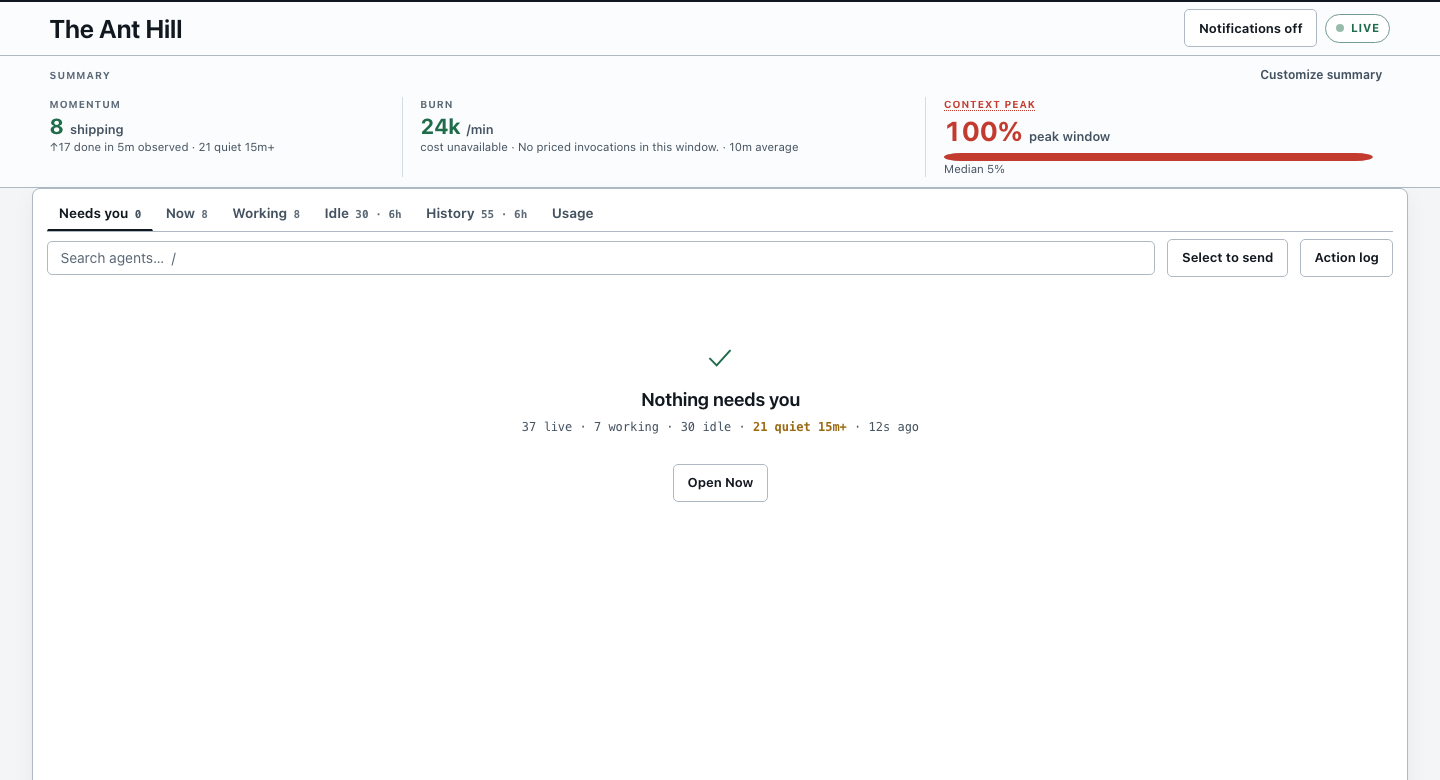
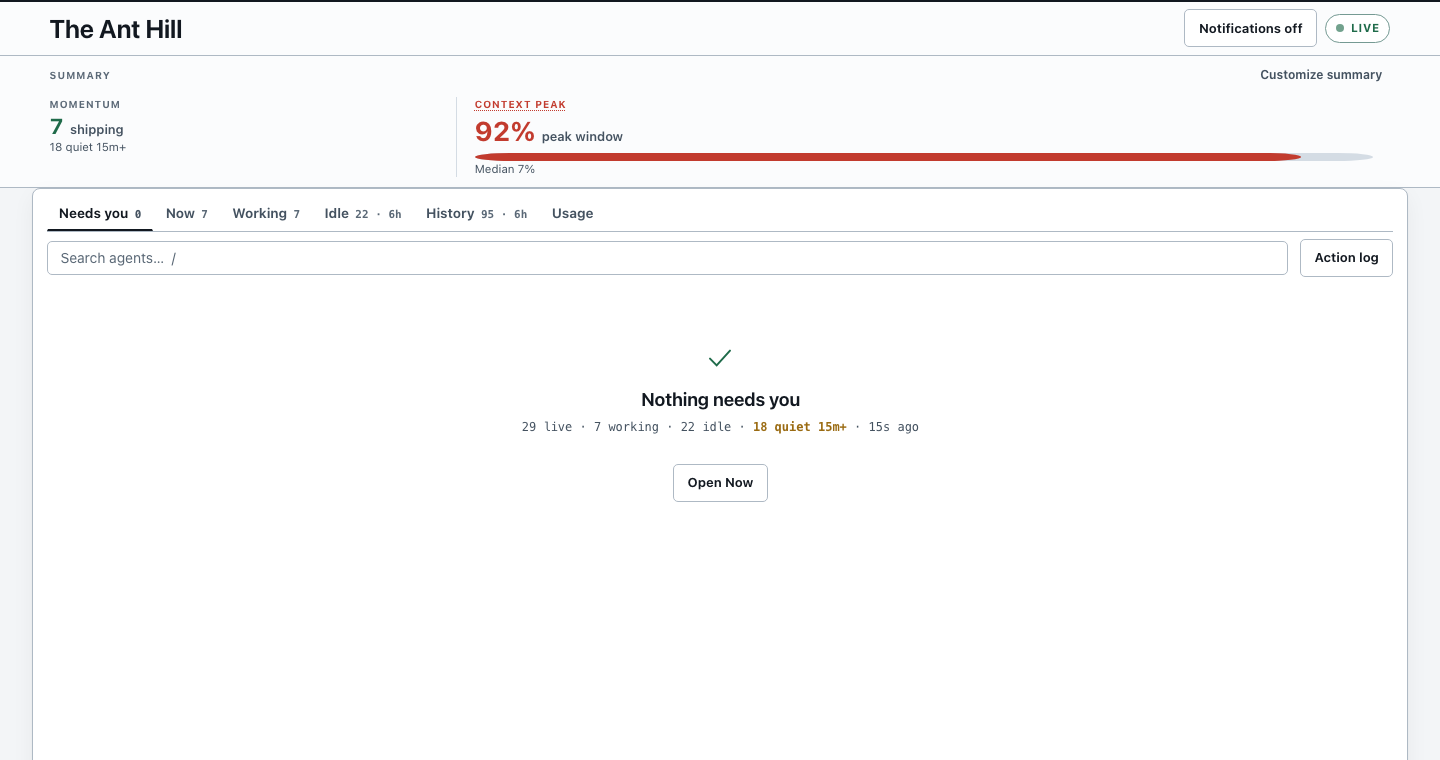
docs(guide): take the held band shots, now that the band tells the truth
All three captured on branch fix/backend-silent-failures-and-freshness at
f82c1e2, with 52df8c9 confirmed in HEAD and the service verified stable first —
pid 97942 and health 200 across three probes, so no frame is mid-restart.

  before-full.png     hero: masthead, the band, the tab strip and the empty state
  shot-1-summary.png  the band alone
  shot-2-board.png    the tab strip and "Nothing needs you"

These were held because three attention counts used to render at once and
compose into a false all-clear, so any frame would have documented that bug.
52df8c9 fixed it, and the frames show the result: no Findings card at all when
nothing is open, rather than a card insisting on a number the tab contradicts.

Checked before shooting rather than after: no frame contains a
magnitude-audit figure that is still unfixed. The done counter is item 1, the
only one whose error is unbounded, and it is still live at app.js:700 — it
simply does not render in these frames. What is in shot is "shipping", "quiet
15m+" and the context peak, which the audit examined and cleared.

Two things the shots caught that were not the point of them. The Select button
is correctly absent now, so the CSS defect I reported — hidden set but
display:flex overriding it — has been fixed by the frontend lane. And the band
is expanded rather than collapsed because contextPeak is 97 and crosses the
alarm threshold, which is the band working, not failing.
[…]

diff --git a/ANT-GUIDE.md b/ANT-GUIDE.md
@@ -32,14 +32,18 @@ Four steps. Do these in order and you have used the tool correctly.
 
 ![The summary band](docs/guide-shots/shot-1-summary.png)
 
-**When nothing needs you the band is one line**, as above: what is shipping, what
-has finished this hour, what it is burning, and `All clear`. No cards, no numbers
-to read past. That line is the answer, and you can close the tab.
+**The band only shows you what it has something to say about.** A card with
+nothing to report is absent, not empty — so the shape of the band is itself the
+signal. Above, two cards: work in flight, and one session near its context limit.
 
-When something does need you it expands into cards, and **only `Findings` is a
-to-do list** — it names both what is wrong and what to do about it. The rest are
-context, not tasks: how much is shipping, what it is costing, how full the
-fullest context window is, and whether the system itself is healthy.
+**When nothing at all needs you it collapses to a single line** — what is
+shipping, what it is burning, and `All clear`. No cards, no numbers to read past.
+That line is the answer, and you can close the tab.
+
+When cards are showing, **only `Findings` is a to-do list** — it names both what
+is wrong and what to do about it. The rest are context, not tasks: how much is
+shipping, what it is costing, how full the fullest context window is, and whether
+the system itself is healthy.
 
 ### 2. The board opens on `Needs you`
 
